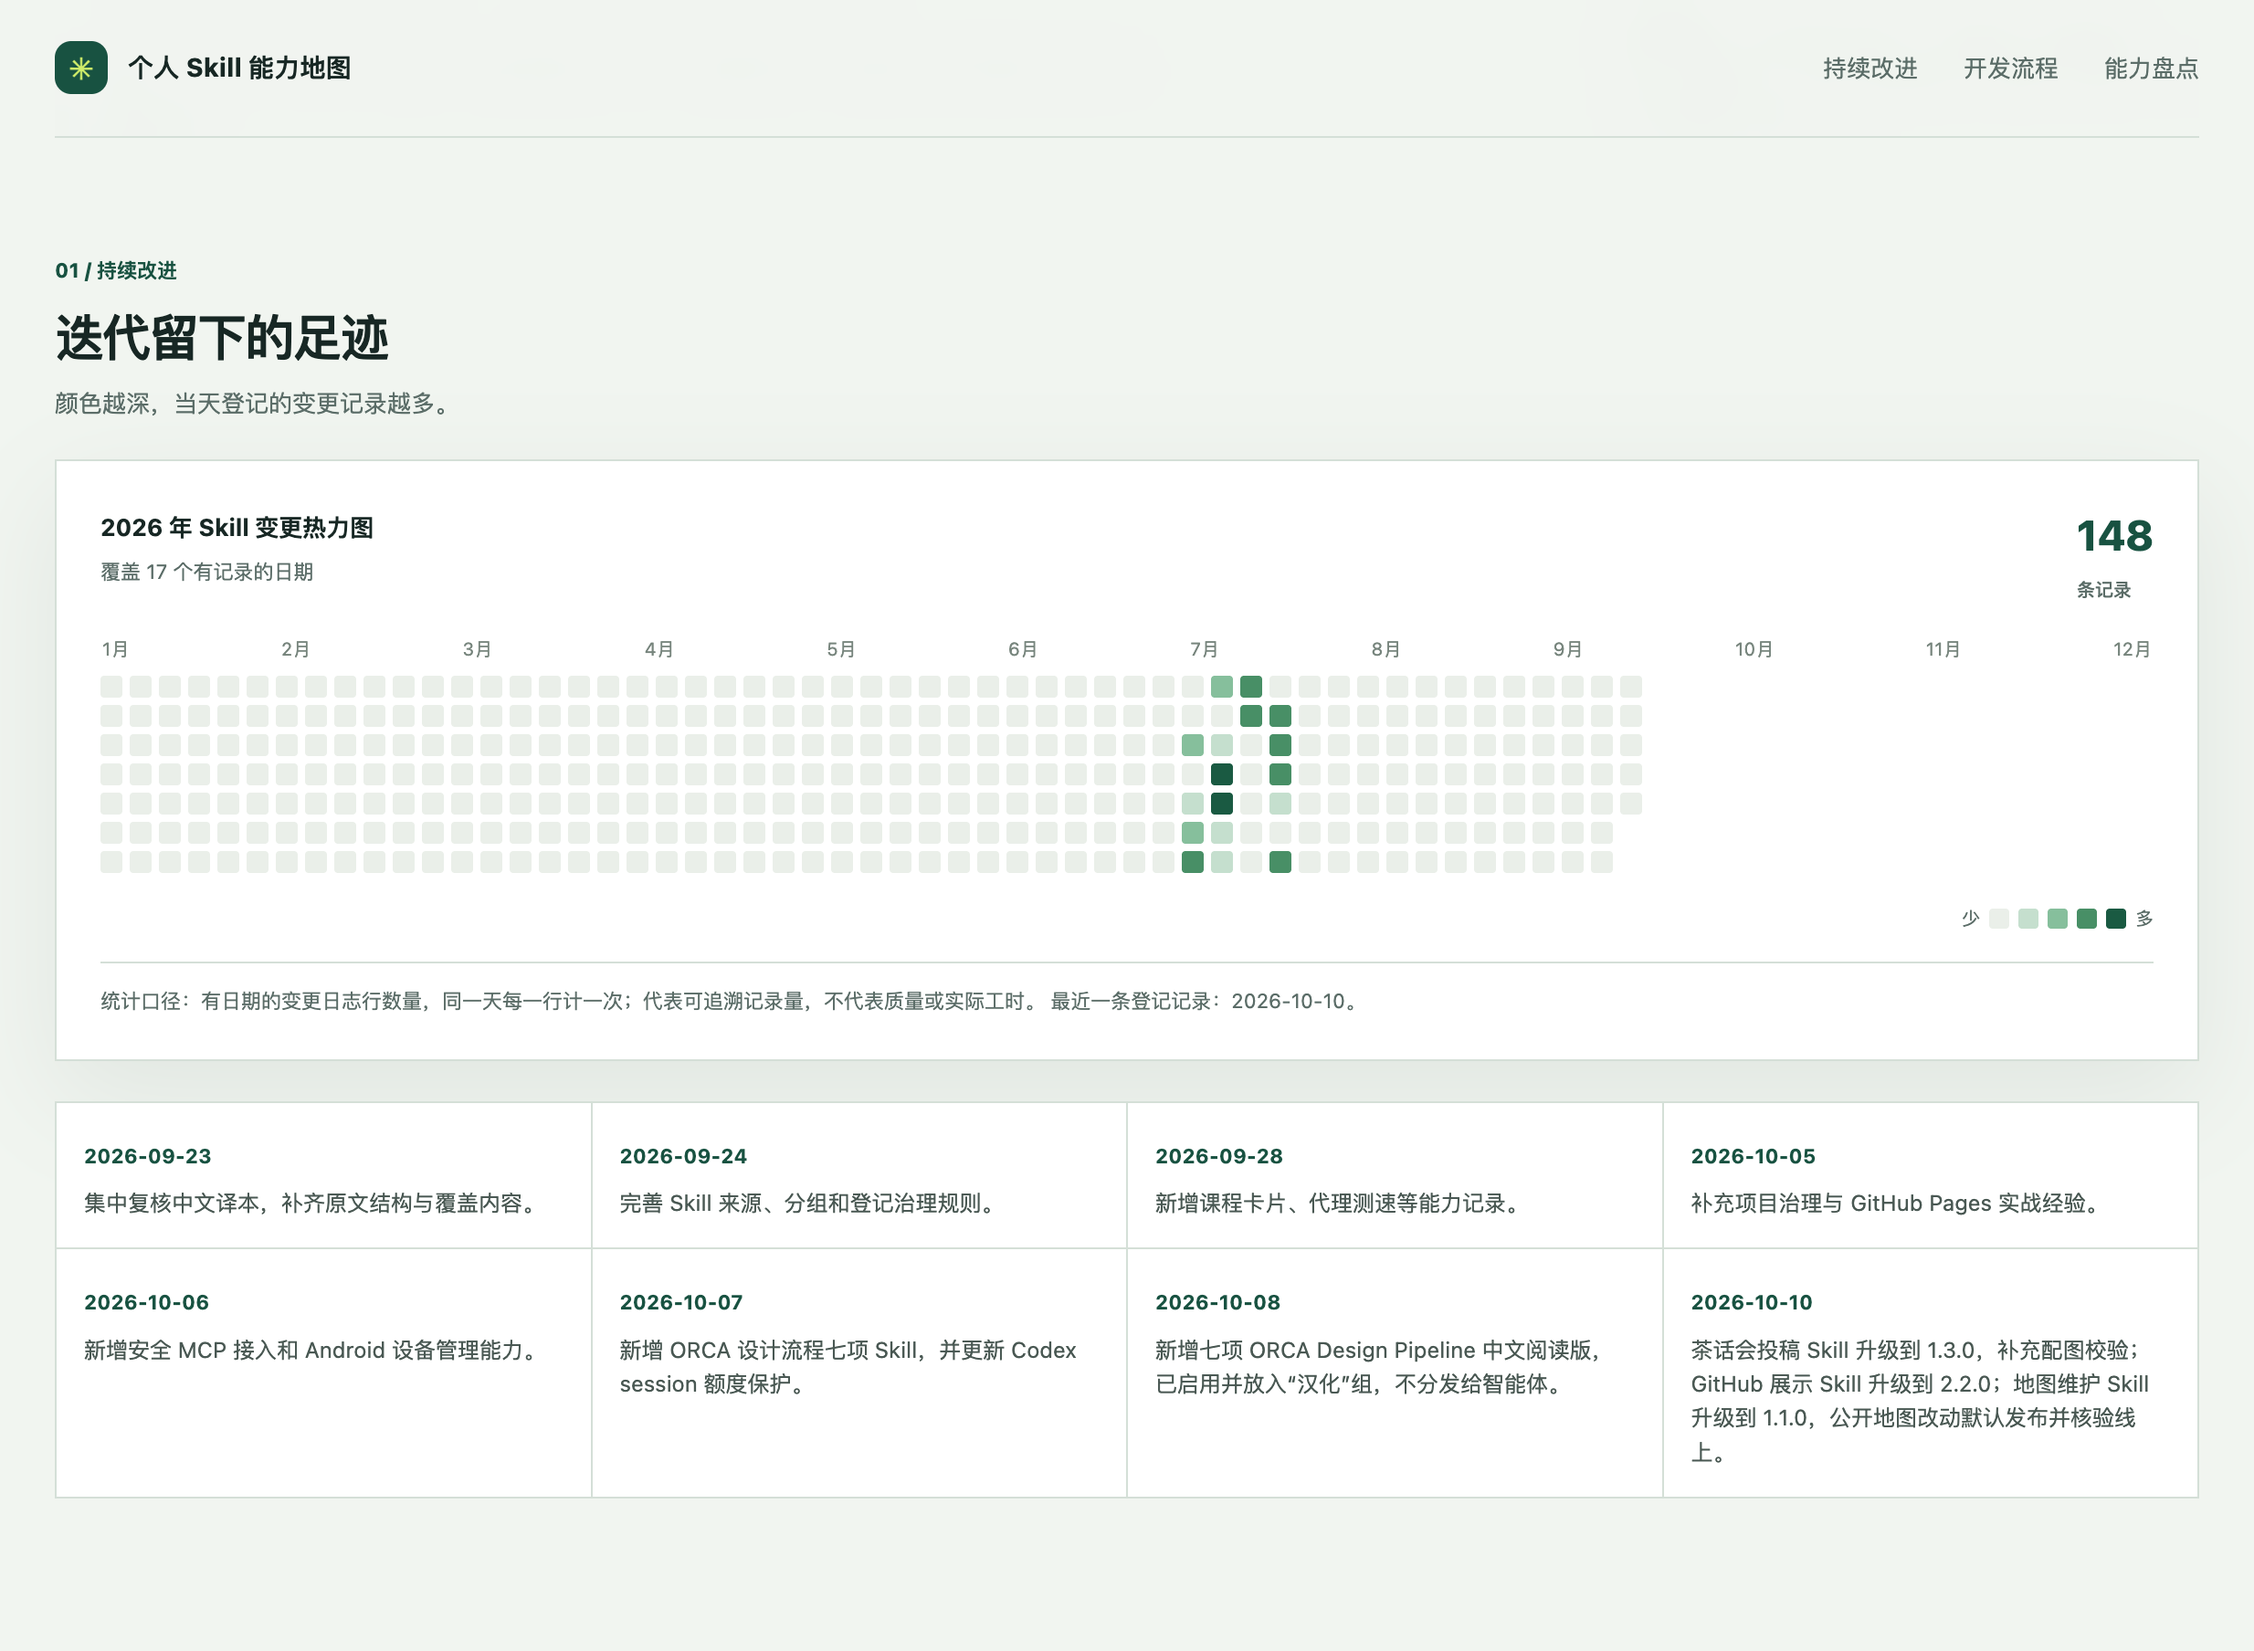
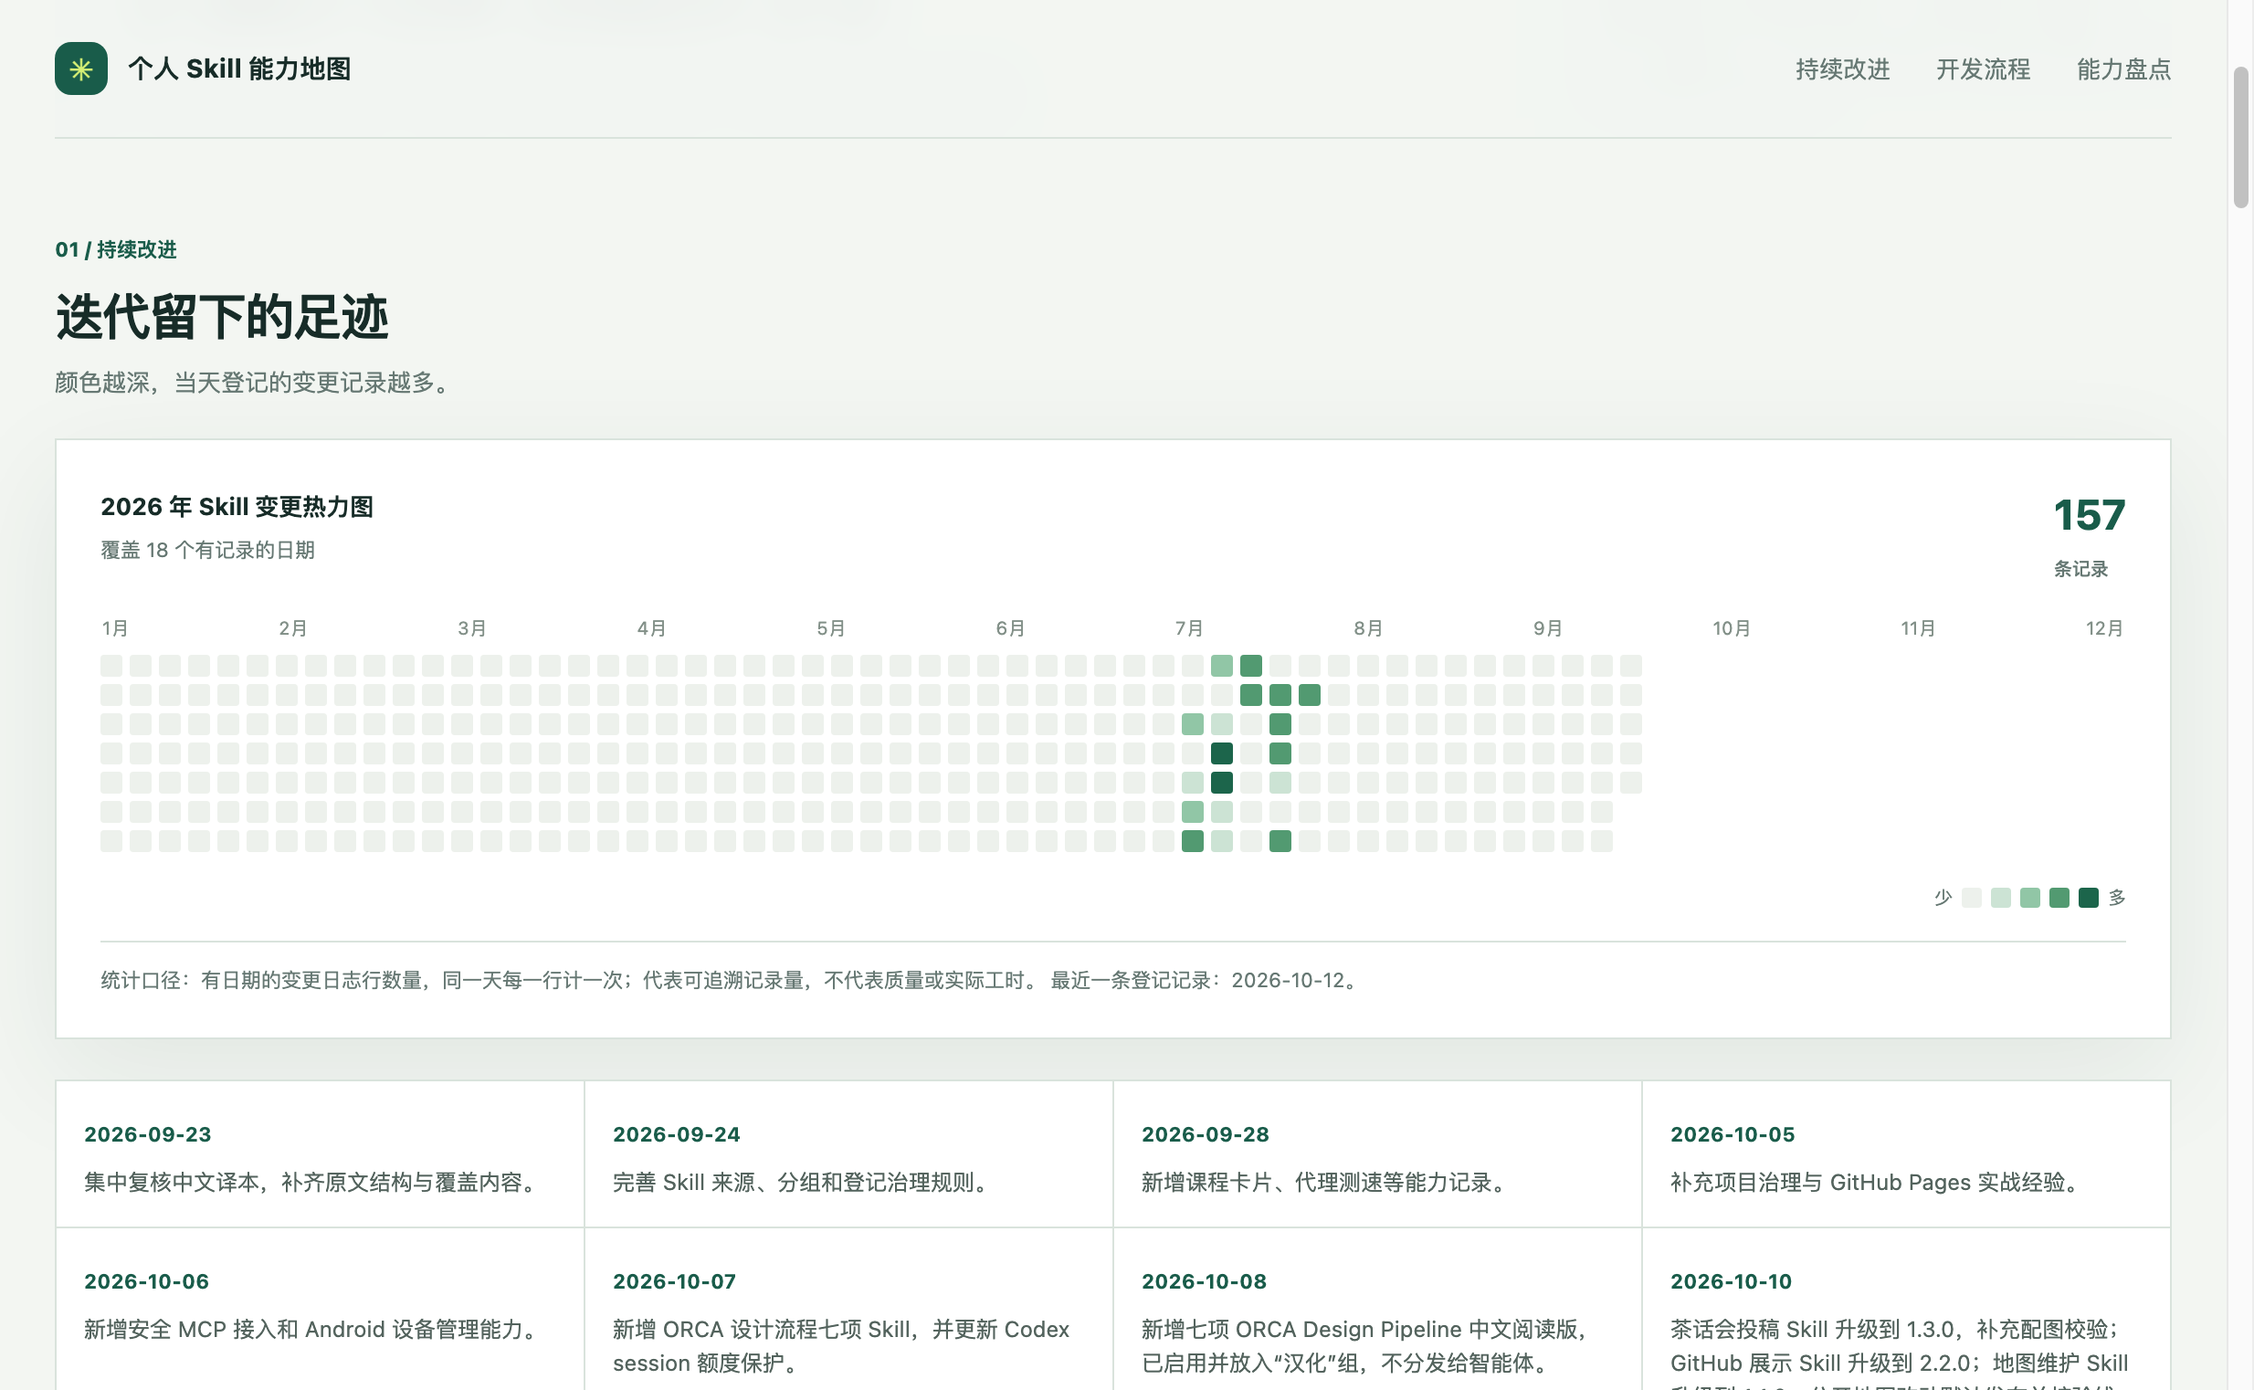
docs: add Spec Kit skills to capability map

diff --git a/index.html b/index.html
@@ -72,7 +72,7 @@
         <div class="table-shell"><table><thead><tr><th scope="col">#</th><th scope="col">Skill</th><th scope="col">能力领域</th><th scope="col">来源</th><th scope="col">它能帮我做什么</th></tr></thead><tbody id="skillRows"><tr><td class="loading" colspan="5">正在读取技能清单…</td></tr></tbody></table></div>
       </section>
     </main>
-    <footer class="foot"><span>数据快照：<span id="snapshot">2026-10-10</span> · 来源：中央仓库与个人技能库</span><span><a href="https://github.com/wanghoufan/alw-002-skill-system-map">GitHub 仓库</a> · 页面按登记信息手动更新</span></footer>
+    <footer class="foot"><span>数据快照：<span id="snapshot">2026-10-12</span> · 来源：中央仓库与个人技能库</span><span><a href="https://github.com/wanghoufan/alw-002-skill-system-map">GitHub 仓库</a> · 页面按登记信息手动更新</span></footer>
   </div>
   <script>
   const escapeHtml = s => String(s).replace(/[&<>"']/g, c => ({'&':'&amp;','<':'&lt;','>':'&gt;','"':'&quot;',"'":'&#39;'}[c]));
@@ -119,7 +119,7 @@
     }
     document.getElementById('heatMonths').innerHTML=['1月','2月','3月','4月','5月','6月','7月','8月','9月','10月','11月','12月'].map(x=>`<span>${x}</span>`).join('');
     const dated=[...data.events].sort((a,b)=>b.date.localeCompare(a.date));const latest=dated[0]?.date||'—';document.getElementById('heatCaption').textContent=`统计口径：${data.countDefinition} 最近一条登记记录：${latest}。`;
-    const highlights=[['2026-09-23','集中复核中文译本，补齐原文结构与覆盖内容。'],['2026-09-24','完善 Skill 来源、分组和登记治理规则。'],['2026-09-28','新增课程卡片、代理测速等能力记录。'],['2026-10-05','补充项目治理与 GitHub Pages 实战经验。'],['2026-10-06','新增安全 MCP 接入和 Android 设备管理能力。'],['2026-10-07','新增 ORCA 设计流程七项 Skill，并更新 Codex session 额度保护。'],['2026-10-08','新增七项 ORCA Design Pipeline 中文阅读版，已启用并放入“汉化”组，不分发给智能体。'],['2026-10-10','茶话会投稿 Skill 升级到 1.3.0，补充配图校验；GitHub 展示 Skill 升级到 2.2.0；地图维护 Skill 升级到 1.1.0，公开地图改动默认发布并核验线上。']];
+    const highlights=[['2026-09-23','集中复核中文译本，补齐原文结构与覆盖内容。'],['2026-09-24','完善 Skill 来源、分组和登记治理规则。'],['2026-09-28','新增课程卡片、代理测速等能力记录。'],['2026-10-05','补充项目治理与 GitHub Pages 实战经验。'],['2026-10-06','新增安全 MCP 接入和 Android 设备管理能力。'],['2026-10-07','新增 ORCA 设计流程七项 Skill，并更新 Codex session 额度保护。'],['2026-10-08','新增七项 ORCA Design Pipeline 中文阅读版，已启用并放入“汉化”组，不分发给智能体。'],['2026-10-10','茶话会投稿 Skill 升级到 1.3.0，补充配图校验；GitHub 展示 Skill 升级到 2.2.0；地图维护 Skill 升级到 1.1.0，公开地图改动默认发布并核验线上。'],['2026-10-12','新增 GitHub Spec Kit 官方 v1.1.3 的九项 SDD Skill，已分发至十个已启用智能体。']];
     document.getElementById('recent').innerHTML=highlights.map(([date,text])=>`<article><time>${date}</time><p>${escapeHtml(text)}</p></article>`).join('');
   }
   load().catch(err=>{document.getElementById('skillRows').innerHTML=`<tr><td colspan="5" class="empty">${escapeHtml(err.message)}。请稍后刷新页面。</td></tr>`;document.getElementById('heatSub').textContent='迭代记录暂时不可用'});

diff --git a/README.en.md b/README.en.md
@@ -24,12 +24,12 @@ Domains include life management, travel, requirements, project collaboration, UI
 
 ## Public data snapshot
 
-The public page reflects a data snapshot from **2026-10-10**, with 93 registered Skills. Translations and their English originals are listed separately. Community contributions and entries with unverified sources are labeled “Community / Unverified.”
+The public page reflects a data snapshot from **2026-10-12**, with 102 registered Skills. Translations and their English originals are listed separately. Community contributions and entries with unverified sources are labeled “Community / Unverified.”
 
 | Source | Count | Description |
 | --- | ---: | --- |
 | Self-built | 42 | Original skills and practical experience captured for reuse |
-| Official upstream | 24 | Skills from official product or project repositories |
+| Official upstream | 33 | Skills from official product or project repositories |
 | Community / Unverified | 27 | Community contributions or entries whose source has not been confirmed |
 
 The inventory combines the central `SKILL-REGISTRY.md` with the locally installed Skill Manager list, deduplicated by Skill name. Built-in plugin Skills, ORCA roles, and project-specific practices are excluded from the Skill count. The activity heatmap counts change records in the central registry; it does not measure quality or time spent.

diff --git a/README.md b/README.md
@@ -24,12 +24,12 @@
 
 ## 当前公开数据
 
-公开页面的数据快照截至 **2026-10-10**，共登记 93 个 Skill。翻译版与英文原版作为独立条目展示；社区作品和来源尚未确认的条目归入“社区 / 待核验”。
+公开页面的数据快照截至 **2026-10-12**，共登记 102 个 Skill。翻译版与英文原版作为独立条目展示；社区作品和来源尚未确认的条目归入“社区 / 待核验”。
 
 | 来源 | 数量 | 说明 |
 | --- | ---: | --- |
 | 自建 | 42 | 原创或实操经验沉淀 |
-| 官方上游 | 24 | 来自产品或项目的官方仓库 |
+| 官方上游 | 33 | 来自产品或项目的官方仓库 |
 | 社区 / 待核验 | 27 | 外部社区作品或来源尚未确认 |
 
 统计合并中央 `SKILL-REGISTRY.md` 与个人 Skill Manager 已安装清单，并按 Skill 名称去重。插件自带 Skill、ORCA 角色流程和项目专用规范不计入 Skill 总数；迭代热力图统计中央登记档案中的变更记录，不代表质量或投入时长。
